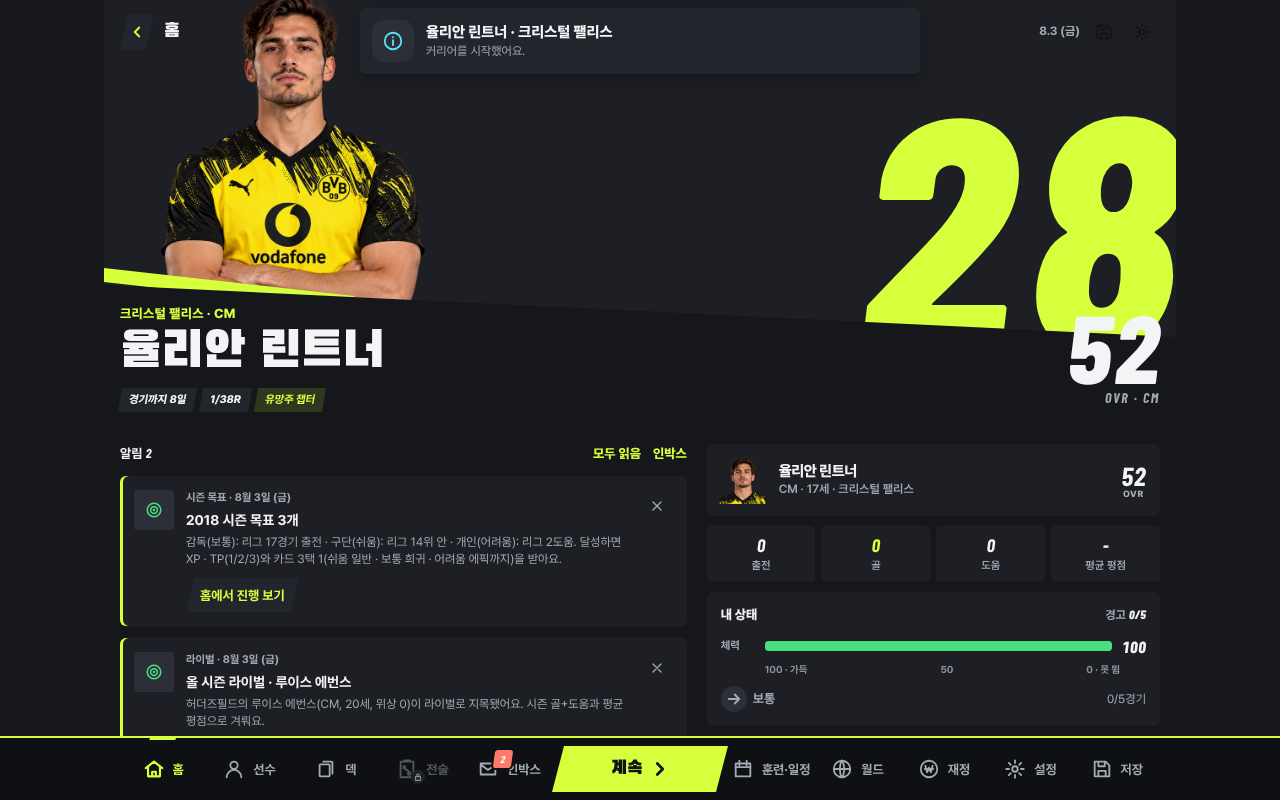
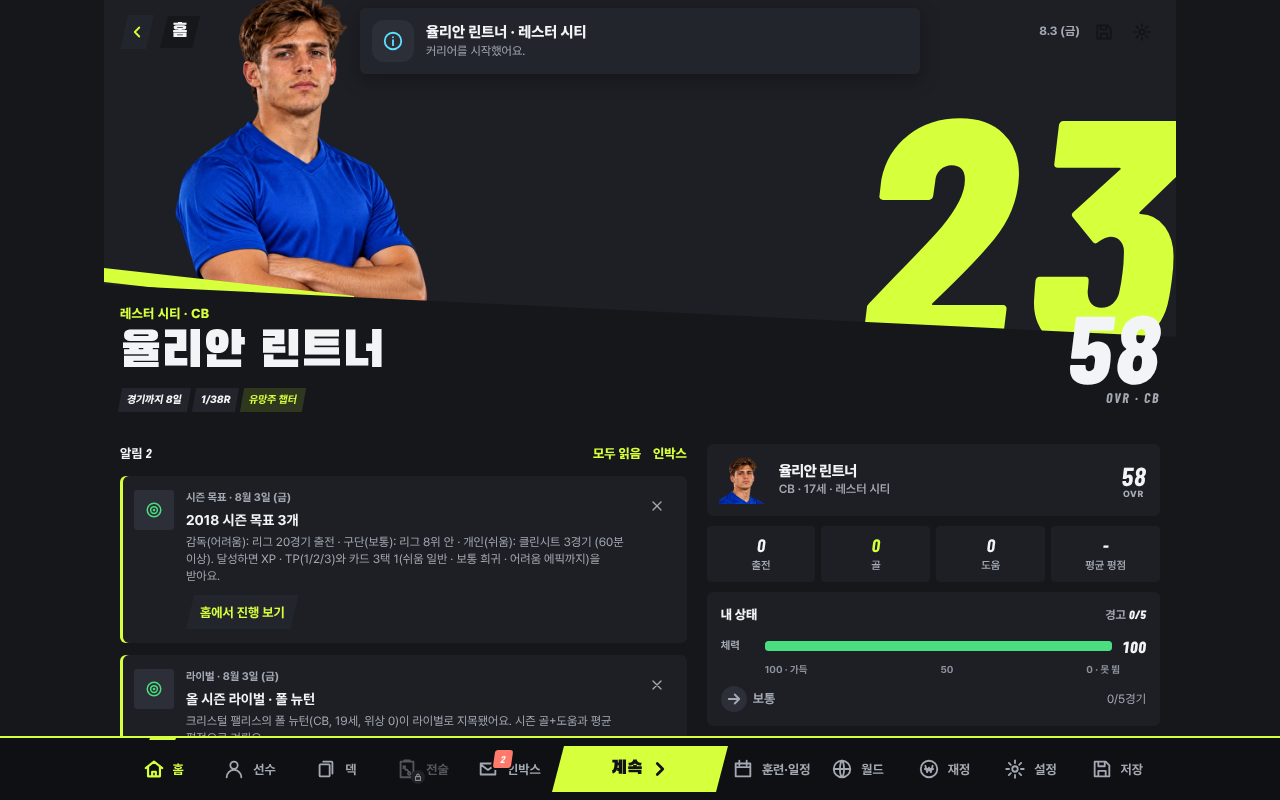
C.75u 얼굴 머리말 겹침 수정: 칩 한 줄·제목 받침·compact 사선 면 올림, 확인 캡처
Claude-Session: https://claude.ai/code/session_01PjLYR9kPAZgE6kmscuBSGF

diff --git a/src/ui/design/skin-b.css b/src/ui/design/skin-b.css
@@ -76,14 +76,17 @@ html[data-skin="b"] { --skew: polygon(5% 0, 100% 0, 95% 100%, 0 100%); --skew-sm
 :where(html[data-skin="b"]) .po-hero--face .po-hero__eyebrow { margin: 0; max-width: none; font-size: 13px; }
 :where(html[data-skin="b"]) .po-hero--face .po-hero__name { font-family: var(--font-head); font-size: 50px; line-height: 54px; white-space: nowrap; overflow: hidden; text-overflow: ellipsis; }
 :where(html[data-skin="b"]) .po-hero--face .po-hero__chips { margin-top: 6px; max-width: none; }
+:where(html[data-skin="b"]) .po-hero--face .po-hero__chips { flex-wrap: nowrap; gap: 5px; min-width: 0; width: calc(100% + 36px); max-width: none; } /* C.75u: 칩은 한 줄 — 2줄이면 아래 붙은 이름 묶음이 위로 밀려 사선·등번호에 겹친다. 줄은 OVR 앞까지(+36px), 그래도 넘치면 칩마다 줄임 */
+:where(html[data-skin="b"]) .po-hero--face .po-hero__chip { display: block; flex: 0 1 auto; min-width: 0; padding: 0 7px; font-size: 10.5px; line-height: 24px; white-space: nowrap; overflow: hidden; text-overflow: ellipsis; }
+:where(html[data-skin="b"]) .po-hero--face .po-hero__title { justify-self: start; max-width: 100%; height: 32px; padding: 0 12px; line-height: 32px; background: var(--surface-0); clip-path: var(--skew-sm); white-space: nowrap; overflow: hidden; text-overflow: ellipsis; } /* C.75u: 제목이 얼굴 사진(머리카락)에 겹쳐도 읽히게 검정 받침 */
 :where(html[data-skin="b"]) .po-hero--face .po-hero__num { position: absolute; z-index: 3; right: var(--space-4); bottom: 22px; height: auto; flex-direction: column; align-items: flex-end; gap: 2px; }
 :where(html[data-skin="b"]) .po-hero--face .po-hero__value { color: var(--ink); font-size: 96px; line-height: 80px; white-space: nowrap; }
 :where(html[data-skin="b"]) .po-hero--face .po-hero__unit { font-family: var(--font-display); font-weight: 700; font-size: 14px; letter-spacing: .12em; color: var(--ink-muted); }
 :where(html[data-skin="b"]) .po-hero--face.po-hero--compact { display: block; height: 290px; border-radius: 0; } /* C.58: compact 격자(요청 5)를 끈다 — 자식은 모두 절대 위치 */
 :where(html[data-skin="b"]) .po-hero--face.po-hero--compact .po-hero__kit { font-size: 320px; line-height: 300px; top: -24px; }
 :where(html[data-skin="b"]) .po-hero--face.po-hero--compact .po-hero__face { width: 250px; height: 250px; bottom: 40px; left: -20px; }
-:where(html[data-skin="b"]) .po-hero--face.po-hero--compact .po-hero__slab { height: 140px; }
-:where(html[data-skin="b"]) .po-hero--face.po-hero--compact .po-hero__line { bottom: 120px; width: 190px; height: 10px; }
+:where(html[data-skin="b"]) .po-hero--face.po-hero--compact .po-hero__slab { height: 180px; clip-path: polygon(0 22%, 100% 44%, 100% 100%, 0 100%); } /* C.75u: 140 → 180 · 오른쪽 50% → 44% — 눈썹 줄(소속·포지션·나이)까지 검정 면 안에 들어오게 */
+:where(html[data-skin="b"]) .po-hero--face.po-hero--compact .po-hero__line { bottom: 150px; width: 190px; height: 10px; } /* C.75u: 120 → 150, 사선 면 윗변에 맞춤 */
 :where(html[data-skin="b"]) .po-hero--face.po-hero--compact .po-hero__name { font-size: 36px; line-height: 40px; }
 :where(html[data-skin="b"]) .po-hero--face.po-hero--compact .po-hero__value { font-size: 72px; line-height: 62px; color: var(--ink); }
 :where(html[data-skin="b"]) .po-hero--face.po-hero--compact .po-hero__who { bottom: 14px; }

diff --git a/tests/c75u.test.ts b/tests/c75u.test.ts
@@ -29,3 +29,16 @@ describe('C.75u 버전', () => {
     expect(STAGE_LABEL).toBe('45단계');
   });
 });
+
+describe('C.75u 얼굴 머리말 겹침 (선수 화면 제보 16:02)', () => {
+  const css = readFileSync('src/ui/design/skin-b.css', 'utf8');
+  it('칩은 한 줄(줄바꿈 없음, 넘치면 칩마다 줄임), 줄 폭은 OVR 앞까지', () => {
+    expect(css).toMatch(/\.po-hero--face \.po-hero__chips \{ flex-wrap: nowrap;[^}]*width: calc\(100% \+ 36px\)/);
+    expect(css).toMatch(/\.po-hero--face \.po-hero__chip \{[^}]*text-overflow: ellipsis/);
+  });
+  it('위 막대 제목은 검정 받침, compact 사선 면은 눈썹 줄까지 덮도록 올림', () => {
+    expect(css).toMatch(/\.po-hero--face \.po-hero__title \{[^}]*background: var\(--surface-0\)/);
+    expect(css).toMatch(/\.po-hero--face\.po-hero--compact \.po-hero__slab \{ height: 180px;/);
+    expect(css).toMatch(/\.po-hero--face\.po-hero--compact \.po-hero__line \{ bottom: 150px;/);
+  });
+});

diff --git a/docs/game-design.md b/docs/game-design.md
@@ -5595,17 +5595,18 @@ pending 125 b(76 · 77-5 · 77-10). 브랜치 `claude/c74b-travel-records`. `PAT
 
 명령 시각 2026-10-20 14:43 KST / 답변 시각 2026-10-20 14:54 KST / 걸린 시간 약 12분
 
-### C.75u 45단계 홈 머리말 긴 이름 잘림 수정 **`main` 배포** (ENGINE_VERSION·BALANCE_VERSION·SAVE_FORMAT_VERSION 그대로)
+### C.75u 45단계 홈 머리말 긴 이름 잘림 · 선수 머리말 겹침 수정 **`main` 배포** (ENGINE_VERSION·BALANCE_VERSION·SAVE_FORMAT_VERSION 그대로)
 
 - 제보(2026-10-20 15:45, 폰): 홈 얼굴 머리말 "율리안 린트너"가 46px 그대로 "율리안 린트…"로 말줄임. 사용자 결정: 두 줄 나누기 안 됨 → **한 줄 유지, 글씨만 줄여 맞춤**, 최소 24px에서도 넘칠 때만 말줄임.
 - 원인: `fitHeroNames()`(src/ui/main.ts)가 정수로 반올림되는 `scrollWidth > clientWidth + 0.5`로 넘침을 봐서 46px 글자 폭 243.39px vs 칸 244px처럼 1px 미만 넘침을 못 잡음(브라우저는 말줄임).
 - 수정: ① `fitHeroNames()`가 Range로 글자 실폭을 소수점까지 재서 `칸 폭 − 1px`보다 넓으면 1px씩 줄임(Range 폭이 없는 환경은 예전 비교). ② `document.fonts` `loadingdone` 때 다시 맞춤. ③ 첫 추정 `heroNameSize`에 `HERO_NAME.slack` 2px 여유(244 → 242로 계산, 율리안 린트너 46 → 45) — 첫 그림부터 거의 안 넘침. 다른 이름 맞춤 함수는 없음(`scrollWidth` 나머지 2곳은 가로 스크롤 버튼용).
-- 확인 캡처 `docs/c75u-check/`(스크립트 `scripts/c75u-capture.mjs`): 폰 390×844 — 율리안 린트너 45px(실폭 238.1/244), 로베르트 레반도프스키 27px(235.8), 바스티안 슈바인슈타이거 25px(236.2) 모두 한 줄·잘림 없음. PC 1280×800 율리안 린트너 50px. 좁힌 폰 360×780(작업 폴더만): 린트너 40px·레반도프스키 24px 잘림 없음, 슈바인슈타이거는 24px에서도 226.8 > 214라 규칙대로 말줄임.
-- 테스트: `tests/c75u.test.ts` 4개(첫 추정 45px·slack 안쪽, Range 비교·loadingdone 소스 확인, 버전). `tests/c75k.test.ts` 버전 고정 → 패턴. 전체 **103파일 854개** 통과, typecheck 통과. 밸런스 무관이라 balance 미실행.
+- **추가(U 16:18, 사용자 16:02 선수 화면 캡처)** 같은 얼굴 머리말(선수 화면은 compact): ① 위 막대 제목 "선수"가 머리카락에 겹침 → 제목에 검정 받침(`--surface-0`, 사선 `--skew-sm`, 뒤로 버튼과 같은 모양). ⑤ 칩 4개가 2줄로 넘쳐 아래 붙은 이름 묶음이 위로 밀림(②③의 원인) → 칩 한 줄(`nowrap`, 10.5px, 줄 폭은 OVR 앞까지 +36px, 그래도 넘치면 칩마다 말줄임). ②③ 눈썹 줄·이름이 사선·등번호에 걸침 → compact 사선 면 140 → 180px(오른쪽 50% → 44%), 라임 선 bottom 120 → 150px으로 올려 눈썹 줄까지 검정 면 안. ④ OVR과 등번호 겹침은 디자인이라 그대로(사용자 16:17). 큰 등번호·사선·얼굴은 유지.
+- 확인 캡처 `docs/c75u-check/`(스크립트 `scripts/c75u-capture.mjs`, 겹침 수치 검사 `report.json`): 폰 390×844 홈·선수 × 율리안 린트너 45/36px, 로베르트 레반도프스키 27px, 바스티안 슈바인슈타이거 25px — 모두 한 줄·잘림 없음, 칩 1줄·칩 잘림 없음, 눈썹·이름 모두 사선 면 윗변·라임 선 아래. PC 1280×800 홈·선수(율리안 린트너) 같은 검사 통과. 좁힌 폰 360×780(작업 폴더만, 이름 수정만 시험): 린트너 40px·레반도프스키 24px 잘림 없음, 슈바인슈타이거는 24px에서도 넘쳐 규칙대로 말줄임. 얼굴 머리말은 홈·선수 두 화면만 쓴다.
+- 테스트: `tests/c75u.test.ts` 6개(첫 추정 45px·slack 안쪽, Range 비교·loadingdone 소스 확인, 칩 한 줄·제목 받침·compact 사선 CSS, 버전). `tests/c75k.test.ts` 버전 고정 → 패턴. 전체 테스트 **103파일 856개**·typecheck·build·balance:engine:check 통과. 밸런스 수치 무변경.
 - PATCH_LABEL 'C.75u', STAGE_LABEL '45단계'.
 - 디자인 없는 새 화면: 없음.
 
-명령 시각 2026-10-20 15:57 KST / 답변 시각 2026-10-20 16:02 KST / 걸린 시간 약 5분
+명령 시각 2026-10-20 15:57 KST / 답변 시각 2026-10-20 16:50 KST / 걸린 시간 약 53분 (추가 지시 16:18 포함)
 
 ### C.75s 45d6단계 리그 데이터 MLS·사우디 — 데이터 파일만 (게임 연결 없음) **`main` 배포** (ENGINE_VERSION·BALANCE_VERSION·SAVE_FORMAT_VERSION 그대로, 게임 결과 불변)
 
